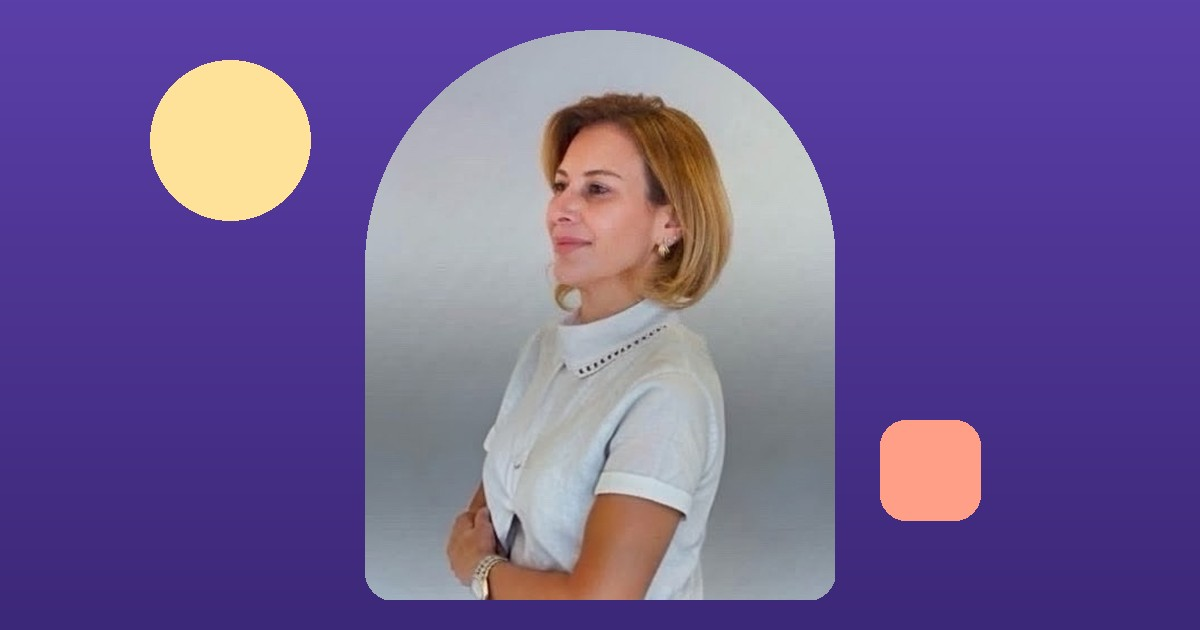
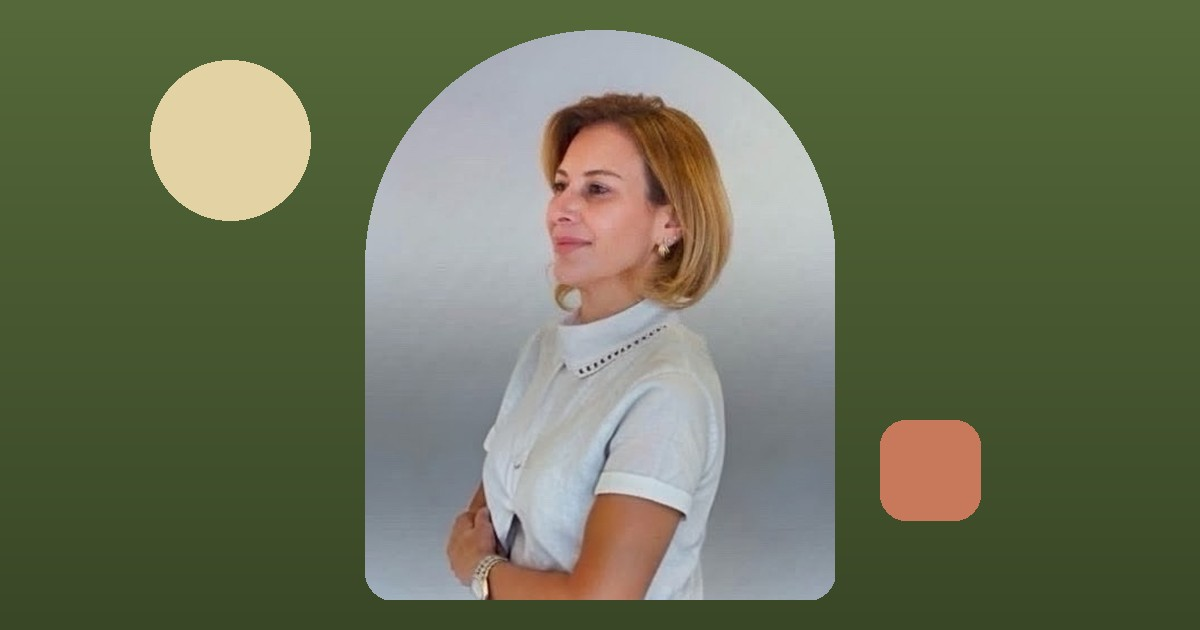
Add files via upload

diff --git a/index.html b/index.html
@@ -1,1 +1,1 @@
-<!doctype html> <html lang='pt-BR'> <head> <meta charset='utf-8'> <meta name='viewport' content='width=device-width, initial-scale=1'> <title>Mentoria A.P.R.E.N.D.E.R. | Suporte psicopedagógico orientado</title> <meta name='description' content='Plano semanal de estímulos de habilidades, preparado e revisado por neuropsicopedagoga. Para crianças de 2 a 14 anos.'> <link rel='canonical' href='https://www.mentoriaaprender.com.br/'> <meta property='og:type' content='website'> <meta property='og:url' content='https://www.mentoriaaprender.com.br/'> <meta property='og:title' content='Mentoria A.P.R.E.N.D.E.R. | Suporte psicopedagógico orientado'> <meta property='og:description' content='Plano semanal de estímulos de habilidades, preparado e revisado por neuropsicopedagoga. Para crianças de 2 a 14 anos.'> <meta property='og:image' content='https://www.mentoriaaprender.com.br/og-image.jpg'> <meta property='og:image:width' content='1200'> <meta property='og:image:height' content='630'> <meta name='twitter:card' content='summary_large_image'> <link rel='preconnect' href='https://fonts.googleapis.com'> <link rel='stylesheet' href='https://fonts.googleapis.com/css2?family=Lexend:wght@500;600;700&family=Nunito:wght@400;600;700&display=swap'> <style>.s0{width:100%;background:#F7F4FF}.s1{padding:20px 24px 0}.s2{max-width:1120px;margin:0 auto;background:#FFFFFF;border-radius:999px;padding:10px 12px 10px 28px;display:flex;flex-wrap:wrap;align-items:center;justify-content:space-between;gap:12px;box-shadow:0 2px 14px rgba(42,27,77,0.08)}.s3{font-family:'Lexend',sans-serif;font-weight:700;font-size:18px;color:#5B3FA8}.s4{display:flex;flex-wrap:wrap;align-items:center;gap:4px 22px}.s5{color:#2A1B4D;text-decoration:none;font-weight:700;font-size:15px;padding:12px 0}.s6{background:#FF9F88;color:#2A1B4D;text-decoration:none;font-weight:700;font-size:15px;padding:12px 22px;border-radius:999px}.s7{max-width:1120px;margin:0 auto;padding:56px 32px 40px;display:flex;flex-wrap:wrap;align-items:center;gap:48px}.s8{flex:1 1 460px;min-width:0;display:flex;flex-direction:column;gap:24px}.s9{align-self:flex-start;background:#FFE29A;color:#2A1B4D;font-weight:700;font-size:14px;padding:8px 16px;border-radius:999px}.s10{font-size:clamp(32px,6vw,50px);line-height:1.12;font-weight:700;color:#2A1B4D}.s11{font-size:19px;line-height:1.6;color:#4A4466}.s12{display:flex;flex-wrap:wrap;gap:14px;align-items:center}.s13{background:#FF9F88;color:#2A1B4D;text-decoration:none;font-weight:700;font-size:17px;padding:16px 30px;border-radius:999px}.s14{color:#5B3FA8;text-decoration:none;font-weight:700;font-size:17px;padding:16px 26px;border-radius:999px;border:2px solid #5B3FA8}.s15{flex:1 1 360px;min-width:0;position:relative;display:flex;justify-content:center;padding:24px}.s16{position:absolute;width:150px;height:150px;border-radius:50%;background:#FFE29A;top:0;right:8px}.s17{position:absolute;width:90px;height:90px;border-radius:24px;background:#FF9F88;bottom:4px;left:12px;transform:rotate(14deg)}.s18{position:relative;width:100%;max-width:420px;min-height:440px;box-sizing:border-box;background:#5B3FA8;border-radius:200px 200px 32px 200px;padding:64px 40px 48px;display:flex;flex-direction:column;justify-content:center;gap:26px}.s19{display:flex;align-items:center;gap:16px}.s20{width:44px;height:44px;border-radius:50%;background:#FFE29A;flex:none}.s21{font-family:'Lexend',sans-serif;font-size:24px;font-weight:600;color:#FFFFFF;line-height:1.2}.s22{display:flex;align-items:center;gap:16px;padding-left:24px}.s23{width:44px;height:44px;border-radius:14px;background:#FF9F88;flex:none}.s24{display:flex;align-items:center;gap:16px;padding-left:48px}.s25{width:44px;height:44px;border-radius:50% 50% 50% 8px;background:#9ADBD0;flex:none}.s26{max-width:1120px;margin:0 auto;padding:0 32px 64px;display:flex;flex-wrap:wrap;gap:12px}.s27{background:#FFFFFF;border-radius:999px;padding:12px 22px;font-weight:700;font-size:15px;color:#5B3FA8}.s28{background:#FFFFFF}.s29{max-width:1120px;margin:0 auto;padding:80px 32px;display:flex;flex-direction:column;gap:36px}.s30{max-width:720px;display:flex;flex-direction:column;gap:14px}.s31{font-size:clamp(28px,5vw,38px);line-height:1.2;font-weight:700}.s32{font-size:18px;line-height:1.6;color:#4A4466}.s33{font-size:22px;font-weight:600;color:#5B3FA8}.s34{display:flex;flex-wrap:wrap;gap:20px}.s35{flex:1 1 440px;min-width:0;background:#FFF5D9;border-radius:28px;padding:32px;display:flex;flex-direction:column;gap:10px}.s36{font-size:22px;font-weight:600}.s37{font-size:16px;line-height:1.55;color:#4A4466}.s38{flex:1 1 440px;min-width:0;background:#FFEDE6;border-radius:28px;padding:32px;display:flex;flex-direction:column;gap:10px}.s39{flex:1 1 440px;min-width:0;background:#E7DFFB;border-radius:28px;padding:32px;display:flex;flex-direction:column;gap:10px}.s40{flex:1 1 440px;min-width:0;background:#D8F1EA;border-radius:28px;padding:32px;display:flex;flex-direction:column;gap:10px}.s41{flex:1 1 280px;min-width:0;background:#E7DFFB;border-radius:28px;padding:32px;display:flex;flex-direction:column;gap:10px}.s42{flex:1 1 280px;min-width:0;background:#D8F1EA;border-radius:28px;padding:32px;display:flex;flex-direction:column;gap:10px}.s43{flex:1 1 280px;min-width:0;background:#FFF5D9;border-radius:28px;padding:32px;display:flex;flex-direction:column;gap:10px}.s44{font-size:15px;line-height:1.55;color:#4A4466;max-width:760px}.s45{max-width:1120px;margin:0 auto;padding:88px 32px;display:flex;flex-wrap:wrap;gap:56px}.s46{flex:1 1 320px;min-width:0;display:flex;flex-direction:column;gap:16px;align-self:flex-start}.s47{font-size:clamp(28px,5vw,40px);line-height:1.15;font-weight:700}.s48{flex:1.4 1 460px;min-width:0;display:flex;flex-direction:column;gap:20px}.s49{display:flex;gap:20px;align-items:flex-start;background:#FFFFFF;border-radius:24px;padding:24px}.s50{width:52px;height:52px;border-radius:50%;background:#5B3FA8;color:#FFFFFF;font-family:'Lexend',sans-serif;font-weight:700;font-size:22px;display:flex;align-items:center;justify-content:center;flex:none}.s51{display:flex;flex-direction:column;gap:6px;min-width:0}.s52{font-size:21px;font-weight:600}.s53{background:#5B3FA8}.s54{max-width:760px;display:flex;flex-direction:column;gap:14px}.s55{font-size:clamp(28px,5vw,38px);line-height:1.2;font-weight:700;color:#FFFFFF}.s56{font-size:18px;line-height:1.6;color:#EDE8FA}.s57{flex:1 1 280px;min-width:0;background:#FFFFFF;border-radius:28px;padding:30px;display:flex;flex-direction:column;gap:12px}.s58{width:44px;height:44px;border-radius:50%;background:#FFE29A}.s59{font-size:16px;line-height:1.6;color:#4A4466}.s60{width:44px;height:44px;border-radius:14px;background:#FF9F88}.s61{width:44px;height:44px;border-radius:50% 50% 50% 8px;background:#9ADBD0}.s62{max-width:1120px;margin:0 auto;padding:88px 32px;display:flex;flex-wrap:wrap;align-items:center;gap:48px}.s63{flex:0 1 340px;min-width:0;width:100%;max-width:340px}.s64{width:100%;height:420px;object-fit:cover;object-position:center top;border-radius:170px 170px 28px 28px;display:block}.s65{flex:1 1 440px;min-width:0;background:#FFF5D9;border-radius:32px;padding:40px;display:flex;flex-direction:column;gap:16px}.s66{font-weight:700;font-size:14px;letter-spacing:1px;text-transform:uppercase;color:#5B3FA8}.s67{font-size:clamp(28px,5vw,36px);line-height:1.2;font-weight:700}.s68{font-size:18px;line-height:1.65;color:#3B2F5C}.s69{font-size:16px;line-height:1.55;color:#3B2F5C}.s70{display:flex;flex-wrap:wrap;background:#F7F4FF;border-radius:32px;overflow:hidden}.s71{flex:1 1 340px;min-width:0;background:#5B3FA8;padding:40px;display:flex;flex-direction:column;gap:20px;justify-content:center}.s72{font-weight:700;font-size:15px;color:#FFE29A}.s73{display:flex;align-items:baseline;gap:8px;flex-wrap:wrap}.s74{font-family:'Lexend',sans-serif;font-weight:700;font-size:48px;line-height:1;color:#FFFFFF}.s75{font-size:16px;color:#EDE8FA}.s76{background:#FFE29A;border-radius:18px;padding:16px 18px;display:flex;flex-direction:column;gap:4px}.s77{font-weight:700;font-size:16px;color:#2A1B4D}.s78{font-size:15px;line-height:1.5;color:#2A1B4D}.s79{flex:1.2 1 360px;min-width:0;padding:40px;display:flex;flex-direction:column;gap:22px;justify-content:center}.s80{margin:0;padding:0;list-style:none;display:flex;flex-direction:column;gap:12px;font-size:16px;line-height:1.5;color:#2A1B4D}.s81{display:flex;gap:12px;align-items:flex-start}.s82{width:10px;height:10px;border-radius:50%;background:#FF9F88;flex:none;margin-top:7px}.s83{align-self:flex-start;background:#FF9F88;color:#2A1B4D;text-decoration:none;font-weight:700;font-size:17px;padding:16px 30px;border-radius:999px}.s84{max-width:1120px;margin:0 auto;padding:88px 32px;display:flex;flex-direction:column;gap:36px}.s85{flex:1 1 440px;min-width:0;display:flex;flex-direction:column;gap:20px}.s86{background:#FFFFFF;border-radius:24px;padding:24px;display:flex;flex-direction:column;gap:8px}.s87{font-size:19px;font-weight:600}.s88{background:#E7DFFB;border-radius:24px;padding:24px;display:flex;flex-direction:column;gap:12px}.s89{font-size:16px;line-height:1.6;color:#3B2F5C}.s90{align-self:flex-start;background:#5B3FA8;color:#FFFFFF;text-decoration:none;font-weight:700;font-size:16px;padding:14px 26px;border-radius:999px}.s91{background:#2A1B4D}.s92{max-width:880px;margin:0 auto;padding:80px 32px 48px;display:flex;flex-direction:column;gap:24px;align-items:center;text-align:center}.s93{font-size:clamp(30px,5vw,40px);line-height:1.15;font-weight:700;color:#FFFFFF}.s94{font-size:18px;line-height:1.6;color:#E3DCF5;max-width:620px}.s95{background:#FF9F88;color:#2A1B4D;text-decoration:none;font-weight:700;font-size:18px;padding:18px 36px;border-radius:999px}.s96{max-width:1120px;margin:0 auto;padding:32px;border-top:1px solid #4A3A75;display:flex;flex-wrap:wrap;justify-content:space-between;gap:20px}.s97{display:flex;flex-direction:column;gap:6px;flex:1 1 320px;min-width:0}.s98{font-family:'Lexend',sans-serif;font-weight:700;font-size:18px;color:#FFFFFF}.s99{font-size:14px;line-height:1.5;color:#D6CDEE}.s100{display:flex;flex-direction:column;gap:4px;font-size:15px;line-height:1.5}.s101{color:#FFFFFF;text-decoration:underline;padding:8px 0} body{margin:0;font-family:'Nunito',system-ui,sans-serif;color:#2A1B4D;background:#F7F4FF} h1,h2,h3{font-family:'Lexend','Nunito',system-ui,sans-serif;margin:0} p{margin:0} a{color:#5B3FA8} @media (max-width:760px){.nav-b{justify-content:center!important;padding:16px 20px!important;border-radius:32px!important}.nav-b-logo{width:100%;text-align:center}.nav-b-links{justify-content:center!important}} </style> <style>html{scroll-behavior:smooth}</style> </head> <body> <div class='s0'> <header class='s1'> <div class='nav-b s2'> <div class='nav-b-logo s3'>Mentoria A.P.R.E.N.D.E.R.</div> <nav class='nav-b-links s4'> <a class='s5' href='#como-funciona'>Como funciona</a> <a class='s5' href='#valores'>Valores</a> <a class='s5' href='#perguntas'>Perguntas</a> <a class='s6' href='https://mentoria-aprender-hkcu.vercel.app'>Começar a Mentoria</a> </nav> </div> </header> <section> <div class='s7'> <div class='s8'> <div class='s9'>Suporte psicopedagógico orientado em casa</div> <h1 class='s10'>Aprender pode ser mais leve com um plano de estímulos de habilidades personalizado para o seu filho.</h1> <p class='s11'>Toda semana, sua família recebe atividades preparadas e revisadas por uma neuropsicopedagoga. Você conduz em casa, com orientação passo a passo.</p> <div class='s12'> <a class='s13' href='https://mentoria-aprender-hkcu.vercel.app'>Começar a Mentoria</a> <a class='s14' href='#como-funciona'>Ver como funciona</a> </div> </div> <div class='s15'> <div class='s16'></div> <div class='s17'></div> <div class='s18'> <div class='s19'><div class='s20'></div><div class='s21'>A família conduz.</div></div> <div class='s22'><div class='s23'></div><div class='s21'>A profissional orienta.</div></div> <div class='s24'><div class='s25'></div><div class='s21'>A criança floresce.</div></div> </div> </div> </div> <div class='s26'> <div class='s27'>Para crianças de 2 a 14 anos</div> <div class='s27'>Plano novo toda semana</div> <div class='s27'>Sem fidelidade</div> </div> </section> <section class='s28'> <div class='s29'> <div class='s30'> <h2 class='s31'>Sinais que costumam levar as famílias até aqui</h2> <p class='s32'>Se você se reconhece em alguma destas situações, a Mentoria pode ajudar a organizar o apoio dentro de casa.</p> </div> <h3 class='s33'>Na idade escolar</h3> <div class='s34'> <div class='s35'> <h3 class='s36'>Lição de casa vira conflito</h3> <p class='s37'>O horário de estudo termina em choro, cansaço e discussão.</p> </div> <div class='s38'> <h3 class='s36'>Dificuldade de atenção</h3> <p class='s37'>Perde o foco rápido, esquece instruções, não termina o que começa.</p> </div> <div class='s39'> <h3 class='s36'>Leitura, escrita ou matemática</h3> <p class='s37'>Está aprendendo em um ritmo diferente do esperado para a idade.</p> </div> <div class='s40'> <h3 class='s36'>Medo de errar</h3> <p class='s37'>Evita tarefas, diz que não consegue e perde a confiança em si.</p> </div> </div> <h3 class='s33'>Na primeira infância (2 a 5 anos)</h3> <div class='s34'> <div class='s41'> <h3 class='s36'>Fala e comunicação</h3> <p class='s37'>Demora para falar, dificuldade de ser compreendido ou de se expressar com palavras.</p> </div> <div class='s42'> <h3 class='s36'>Coordenação e brincadeiras</h3> <p class='s37'>Dificuldade com lápis, tesoura e encaixes, ou pouco interesse em brincar com outras crianças.</p> </div> <div class='s43'> <h3 class='s36'>Rotina e emoções</h3> <p class='s37'>Birras intensas, dificuldade de seguir rotinas e de lidar com frustrações.</p> </div> </div> <p class='s44'>A Mentoria é um suporte psicopedagógico orientado. Ela não substitui avaliação e nem diagnóstico profissional.</p> </div> </section> <section id='como-funciona'> <div class='s45'> <div class='s46'> <h2 class='s47'>Como funciona, em 4 passos</h2> <p class='s32'>Simples para a família, cuidadoso para a criança.</p> </div> <div class='s48'> <div class='s49'> <div class='s50'>1</div> <div class='s51'> <h3 class='s52'>Você começa a Mentoria</h3> <p class='s37'>Cria a conta, cadastra seu filho e escolhe o acompanhamento mensal.</p> </div> </div> <div class='s49'> <div class='s50'>2</div> <div class='s51'> <h3 class='s52'>Conversa de acolhimento</h3> <p class='s37'>Um encontro online para conhecer a criança, a rotina e as queixas da família.</p> </div> </div> <div class='s49'> <div class='s50'>3</div> <div class='s51'> <h3 class='s52'>Plano semanal personalizado</h3> <p class='s37'>Atividades preparadas e revisadas por neuropsicopedagoga. Você escolhe o formato: 1, 2 ou 4 atividades por dia.</p> </div> </div> <div class='s49'> <div class='s50'>4</div> <div class='s51'> <h3 class='s52'>Acompanhamento mensal</h3> <p class='s37'>Semana após semana, você recebe novos planos e segue com orientação durante o mês.</p> </div> </div> </div> </div> </section> <section class='s53'> <div class='s29'> <div class='s54'> <h2 class='s55'>Por que esse jeito funciona</h2> <p class='s56'>Cada plano nasce de princípios da neurociência da aprendizagem e da neuropsicopedagogia.</p> </div> <div class='s34'> <div class='s57'> <div class='s58'></div> <h3 class='s36'>Pouco por vez</h3> <p class='s59'>Tarefas curtas e claras respeitam a atenção e a memória de trabalho da criança, e evitam a sobrecarga que faz ela desistir.</p> </div> <div class='s57'> <div class='s60'></div> <h3 class='s36'>Brincar é aprender</h3> <p class='s59'>Jogos e desafios com emoção positiva aumentam a motivação e ajudam o cérebro a fixar o que foi vivido.</p> </div> <div class='s57'> <div class='s61'></div> <h3 class='s36'>Rotina com variação</h3> <p class='s59'>Repetir com pequenas mudanças fortalece as conexões entre os neurônios e traz confiança para a criança.</p> </div> </div> </div> </section> <section> <div class='s62'> <div class='s63'> <img class='s64' src='michelle.jpg' alt='Michelle, neuropsicopedagoga'> </div> <div class='s65'> <div class='s66'>Quem está por trás da Mentoria</div> <h2 class='s67'>Michelle, neuropsicopedagoga</h2> <p class='s68'>Criei a Mentoria para levar o olhar da psicopedagogia para dentro de casa: com método, afeto e orientação para a família. Cada plano é preparado e revisado por mim, para que a criança aprenda no seu ritmo e a rotina de estudos fique mais tranquila.</p> <p class='s69'>Formação em pedagogia, psicopedagogia, neuropsicopedagogia e neuropsicologia (em curso).</p> </div> </div> </section> <section class='s28' id='valores'> <div class='s29'> <div class='s30'> <h2 class='s31'>Um valor claro, sem fidelidade</h2> <p class='s32'>Tudo o que sua família precisa em um único acompanhamento mensal.</p> </div> <div class='s70'> <div class='s71'> <div class='s72'>Acompanhamento mensal</div> <div class='s73'> <span class='s74'>R$ 149,90</span> <span class='s75'>por mês</span> </div> <div class='s76'> <div class='s77'>Oferta de novembro</div> <p class='s78'>Começando em novembro, o primeiro mês sai por R$ 79,90. Digite o cupom NOVEMBRO79 na tela de pagamento. Válido só em novembro.</p> </div> </div> <div class='s79'> <ul class='s80'> <li class='s81'><span class='s82'></span>Conversa de acolhimento online</li> <li class='s81'><span class='s82'></span>Plano semanal preparado e revisado por neuropsicopedagoga</li> <li class='s81'><span class='s82'></span>Você escolhe o formato: 1, 2 ou 4 atividades por dia</li> <li class='s81'><span class='s82'></span>Orientação passo a passo para conduzir em casa</li> <li class='s81'><span class='s82'></span>Cancelamento quando quiser, valendo até o fim do período pago</li> </ul> <a class='s83' href='https://mentoria-aprender-hkcu.vercel.app'>Começar a Mentoria</a> </div> </div> </div> </section> <section id='perguntas'> <div class='s84'> <h2 class='s31'>Perguntas frequentes</h2> <div class='s34'> <div class='s85'> <div class='s86'> <h3 class='s87'>Preciso ter formação para aplicar as atividades?</h3> <p class='s59'>Não. Cada plano traz o passo a passo, e a família conduz com a orientação da Mentoria.</p> </div> <div class='s86'> <h3 class='s87'>A Mentoria substitui terapia ou avaliação?</h3> <p class='s59'>Não. É um suporte psicopedagógico orientado e não faz diagnóstico. Quando for preciso, a família é orientada a buscar avaliação profissional.</p> </div> <div class='s86'> <h3 class='s87'>Para quais idades?</h3> <p class='s59'>Crianças e adolescentes de 2 a 14 anos.</p> </div> <div class='s86'> <h3 class='s87'>Quanto tempo por dia?</h3> <p class='s59'>Você escolhe o formato da semana: 1, 2 ou 4 atividades por dia, de acordo com a rotina da família.</p> </div> </div> <div class='s85'> <div class='s86'> <h3 class='s87'>Preciso comprar materiais?</h3> <p class='s59'>Alguns planos podem sugerir jogos ou materiais para apoiar as atividades.</p> </div> <div class='s86'> <h3 class='s87'>Tenho mais de um filho. Como funciona?</h3> <p class='s59'>Vocês usam a mesma conta, com um acompanhamento para cada filho.</p> </div> <div class='s86'> <h3 class='s87'>Posso cancelar?</h3> <p class='s59'>Sim, quando quiser. O acesso continua até o fim do período já pago.</p> </div> <div class='s88'> <h3 class='s87'>Ainda tem dúvidas?</h3> <p class='s89'>Converse com a Michelle pelo WhatsApp antes de começar a Mentoria.</p> <a class='s90' href='https://wa.me/message/4W5EBGGFLVN3A1'>Falar pelo WhatsApp</a> </div> </div> </div> </div> </section> <section class='s91'> <div class='s92'> <h2 class='s93'>Dê o primeiro passo por um aprender mais leve</h2> <p class='s94'>Comece a Mentoria e receba um plano pensado para o seu filho, com orientação de quem entende de aprendizagem.</p> <a class='s95' href='https://mentoria-aprender-hkcu.vercel.app'>Começar a Mentoria</a> </div> <div class='s96'> <div class='s97'> <div class='s98'>Mentoria A.P.R.E.N.D.E.R.</div> <p class='s99'>Suporte psicopedagógico orientado. Não substitui avaliação e nem diagnóstico profissional.</p> </div> <div class='s100'> <a class='s101' href='https://www.instagram.com/psicopedagogamichellegb'>Instagram: @psicopedagogamichellegb</a> <a class='s101' href='mailto:metodoaprenderpsicomi@gmail.com'>metodoaprenderpsicomi@gmail.com</a> <a class='s101' href='https://wa.me/message/4W5EBGGFLVN3A1'>WhatsApp: fale com a Michelle</a> </div> </div> </section> </div> </body> </html> 
+<!doctype html> <html lang='pt-BR'> <head> <meta charset='utf-8'> <meta name='viewport' content='width=device-width, initial-scale=1'> <title>Mentoria A.P.R.E.N.D.E.R. | Suporte psicopedagógico orientado</title> <meta name='description' content='Plano semanal de estímulos de habilidades, preparado e revisado por neuropsicopedagoga. Para crianças de 2 a 14 anos.'> <link rel='canonical' href='https://www.mentoriaaprender.com.br/'> <meta property='og:type' content='website'> <meta property='og:url' content='https://www.mentoriaaprender.com.br/'> <meta property='og:title' content='Mentoria A.P.R.E.N.D.E.R. | Suporte psicopedagógico orientado'> <meta property='og:description' content='Plano semanal de estímulos de habilidades, preparado e revisado por neuropsicopedagoga. Para crianças de 2 a 14 anos.'> <meta property='og:image' content='https://www.mentoriaaprender.com.br/og-image.jpg'> <meta property='og:image:width' content='1200'> <meta property='og:image:height' content='630'> <meta name='twitter:card' content='summary_large_image'> <link rel='preconnect' href='https://fonts.googleapis.com'> <link rel='stylesheet' href='https://fonts.googleapis.com/css2?family=Lexend:wght@500;600;700&family=Nunito:wght@400;600;700&display=swap'> <style>.s0{width:100%;background:#F4EDE2}.s1{padding:20px 24px 0}.s2{max-width:1120px;margin:0 auto;background:#FFFFFF;border-radius:999px;padding:10px 12px 10px 28px;display:flex;flex-wrap:wrap;align-items:center;justify-content:space-between;gap:12px;box-shadow:0 2px 14px rgba(58,71,39,0.10)}.s3{font-family:'Lexend',sans-serif;font-weight:700;font-size:18px;color:#55693A}.s4{display:flex;flex-wrap:wrap;align-items:center;gap:4px 22px}.s5{color:#3A4727;text-decoration:none;font-weight:700;font-size:15px;padding:12px 0}.s6{background:#A9573E;color:#FFFFFF;text-decoration:none;font-weight:700;font-size:15px;padding:12px 22px;border-radius:999px}.s7{max-width:1120px;margin:0 auto;padding:56px 32px 40px;display:flex;flex-wrap:wrap;align-items:center;gap:48px}.s8{flex:1 1 460px;min-width:0;display:flex;flex-direction:column;gap:24px}.s9{align-self:flex-start;background:#E3D3A4;color:#3A4727;font-weight:700;font-size:14px;padding:8px 16px;border-radius:999px}.s10{font-size:clamp(32px,6vw,50px);line-height:1.12;font-weight:700;color:#3A4727}.s11{font-size:19px;line-height:1.6;color:#55564A}.s12{display:flex;flex-wrap:wrap;gap:14px;align-items:center}.s13{background:#A9573E;color:#FFFFFF;text-decoration:none;font-weight:700;font-size:17px;padding:16px 30px;border-radius:999px}.s14{color:#55693A;text-decoration:none;font-weight:700;font-size:17px;padding:16px 26px;border-radius:999px;border:2px solid #55693A}.s15{flex:1 1 360px;min-width:0;position:relative;display:flex;justify-content:center;padding:24px}.s16{position:absolute;width:150px;height:150px;border-radius:50%;background:#E3D3A4;top:0;right:8px}.s17{position:absolute;width:90px;height:90px;border-radius:24px;background:#C9795B;bottom:4px;left:12px;transform:rotate(14deg)}.s18{position:relative;width:100%;max-width:420px;min-height:440px;box-sizing:border-box;background:#55693A;border-radius:200px 200px 32px 200px;padding:64px 40px 48px;display:flex;flex-direction:column;justify-content:center;gap:26px}.s19{display:flex;align-items:center;gap:16px}.s20{width:44px;height:44px;border-radius:50%;background:#E3D3A4;flex:none}.s21{font-family:'Lexend',sans-serif;font-size:24px;font-weight:600;color:#FFFFFF;line-height:1.2}.s22{display:flex;align-items:center;gap:16px;padding-left:24px}.s23{width:44px;height:44px;border-radius:14px;background:#C9795B;flex:none}.s24{display:flex;align-items:center;gap:16px;padding-left:48px}.s25{width:44px;height:44px;border-radius:50% 50% 50% 8px;background:#A9B98A;flex:none}.s26{max-width:1120px;margin:0 auto;padding:0 32px 64px;display:flex;flex-wrap:wrap;gap:12px}.s27{background:#FFFFFF;border-radius:999px;padding:12px 22px;font-weight:700;font-size:15px;color:#55693A}.s28{background:#FFFFFF}.s29{max-width:1120px;margin:0 auto;padding:80px 32px;display:flex;flex-direction:column;gap:36px}.s30{max-width:720px;display:flex;flex-direction:column;gap:14px}.s31{font-size:clamp(28px,5vw,38px);line-height:1.2;font-weight:700}.s32{font-size:18px;line-height:1.6;color:#55564A}.s33{font-size:22px;font-weight:600;color:#55693A}.s34{display:flex;flex-wrap:wrap;gap:20px}.s35{flex:1 1 440px;min-width:0;background:#F3E9D0;border-radius:28px;padding:32px;display:flex;flex-direction:column;gap:10px}.s36{font-size:22px;font-weight:600}.s37{font-size:16px;line-height:1.55;color:#55564A}.s38{flex:1 1 440px;min-width:0;background:#F2DDD2;border-radius:28px;padding:32px;display:flex;flex-direction:column;gap:10px}.s39{flex:1 1 440px;min-width:0;background:#E3E8D3;border-radius:28px;padding:32px;display:flex;flex-direction:column;gap:10px}.s40{flex:1 1 440px;min-width:0;background:#D5DEC0;border-radius:28px;padding:32px;display:flex;flex-direction:column;gap:10px}.s41{flex:1 1 280px;min-width:0;background:#E3E8D3;border-radius:28px;padding:32px;display:flex;flex-direction:column;gap:10px}.s42{flex:1 1 280px;min-width:0;background:#D5DEC0;border-radius:28px;padding:32px;display:flex;flex-direction:column;gap:10px}.s43{flex:1 1 280px;min-width:0;background:#F3E9D0;border-radius:28px;padding:32px;display:flex;flex-direction:column;gap:10px}.s44{font-size:15px;line-height:1.55;color:#55564A;max-width:760px}.s45{max-width:1120px;margin:0 auto;padding:88px 32px;display:flex;flex-wrap:wrap;gap:56px}.s46{flex:1 1 320px;min-width:0;display:flex;flex-direction:column;gap:16px;align-self:flex-start}.s47{font-size:clamp(28px,5vw,40px);line-height:1.15;font-weight:700}.s48{flex:1.4 1 460px;min-width:0;display:flex;flex-direction:column;gap:20px}.s49{display:flex;gap:20px;align-items:flex-start;background:#FFFFFF;border-radius:24px;padding:24px}.s50{width:52px;height:52px;border-radius:50%;background:#55693A;color:#FFFFFF;font-family:'Lexend',sans-serif;font-weight:700;font-size:22px;display:flex;align-items:center;justify-content:center;flex:none}.s51{display:flex;flex-direction:column;gap:6px;min-width:0}.s52{font-size:21px;font-weight:600}.s53{background:#55693A}.s54{max-width:760px;display:flex;flex-direction:column;gap:14px}.s55{font-size:clamp(28px,5vw,38px);line-height:1.2;font-weight:700;color:#FFFFFF}.s56{font-size:18px;line-height:1.6;color:#EAE6D4}.s57{flex:1 1 280px;min-width:0;background:#FFFFFF;border-radius:28px;padding:30px;display:flex;flex-direction:column;gap:12px}.s58{width:44px;height:44px;border-radius:50%;background:#E3D3A4}.s59{font-size:16px;line-height:1.6;color:#55564A}.s60{width:44px;height:44px;border-radius:14px;background:#C9795B}.s61{width:44px;height:44px;border-radius:50% 50% 50% 8px;background:#A9B98A}.s62{max-width:1120px;margin:0 auto;padding:88px 32px;display:flex;flex-wrap:wrap;align-items:center;gap:48px}.s63{flex:0 1 340px;min-width:0;width:100%;max-width:340px}.s64{width:100%;height:420px;object-fit:cover;object-position:center top;border-radius:170px 170px 28px 28px;display:block}.s65{flex:1 1 440px;min-width:0;background:#F3E9D0;border-radius:32px;padding:40px;display:flex;flex-direction:column;gap:16px}.s66{font-weight:700;font-size:14px;letter-spacing:1px;text-transform:uppercase;color:#55693A}.s67{font-size:clamp(28px,5vw,36px);line-height:1.2;font-weight:700}.s68{font-size:18px;line-height:1.65;color:#3F4631}.s69{font-size:16px;line-height:1.55;color:#3F4631}.s70{display:flex;flex-wrap:wrap;background:#F4EDE2;border-radius:32px;overflow:hidden}.s71{flex:1 1 340px;min-width:0;background:#55693A;padding:40px;display:flex;flex-direction:column;gap:20px;justify-content:center}.s72{font-weight:700;font-size:15px;color:#E3D3A4}.s73{display:flex;align-items:baseline;gap:8px;flex-wrap:wrap}.s74{font-family:'Lexend',sans-serif;font-weight:700;font-size:48px;line-height:1;color:#FFFFFF}.s75{font-size:16px;color:#EAE6D4}.s76{background:#E3D3A4;border-radius:18px;padding:16px 18px;display:flex;flex-direction:column;gap:4px}.s77{font-weight:700;font-size:16px;color:#3A4727}.s78{font-size:15px;line-height:1.5;color:#3A4727}.s79{flex:1.2 1 360px;min-width:0;padding:40px;display:flex;flex-direction:column;gap:22px;justify-content:center}.s80{margin:0;padding:0;list-style:none;display:flex;flex-direction:column;gap:12px;font-size:16px;line-height:1.5;color:#3A4727}.s81{display:flex;gap:12px;align-items:flex-start}.s82{width:10px;height:10px;border-radius:50%;background:#C9795B;flex:none;margin-top:7px}.s83{align-self:flex-start;background:#A9573E;color:#FFFFFF;text-decoration:none;font-weight:700;font-size:17px;padding:16px 30px;border-radius:999px}.s84{max-width:1120px;margin:0 auto;padding:88px 32px;display:flex;flex-direction:column;gap:36px}.s85{flex:1 1 440px;min-width:0;display:flex;flex-direction:column;gap:20px}.s86{background:#FFFFFF;border-radius:24px;padding:24px;display:flex;flex-direction:column;gap:8px}.s87{font-size:19px;font-weight:600}.s88{background:#E3E8D3;border-radius:24px;padding:24px;display:flex;flex-direction:column;gap:12px}.s89{font-size:16px;line-height:1.6;color:#3F4631}.s90{align-self:flex-start;background:#55693A;color:#FFFFFF;text-decoration:none;font-weight:700;font-size:16px;padding:14px 26px;border-radius:999px}.s91{background:#3A4727}.s92{max-width:880px;margin:0 auto;padding:80px 32px 48px;display:flex;flex-direction:column;gap:24px;align-items:center;text-align:center}.s93{font-size:clamp(30px,5vw,40px);line-height:1.15;font-weight:700;color:#FFFFFF}.s94{font-size:18px;line-height:1.6;color:#E2DFCC;max-width:620px}.s95{background:#D9C48E;color:#3A4727;text-decoration:none;font-weight:700;font-size:18px;padding:18px 36px;border-radius:999px}.s96{max-width:1120px;margin:0 auto;padding:32px;border-top:1px solid #5C6B45;display:flex;flex-wrap:wrap;justify-content:space-between;gap:20px}.s97{display:flex;flex-direction:column;gap:6px;flex:1 1 320px;min-width:0}.s98{font-family:'Lexend',sans-serif;font-weight:700;font-size:18px;color:#FFFFFF}.s99{font-size:14px;line-height:1.5;color:#D8D5C0}.s100{display:flex;flex-direction:column;gap:4px;font-size:15px;line-height:1.5}.s101{color:#FFFFFF;text-decoration:underline;padding:8px 0} body{margin:0;font-family:'Nunito',system-ui,sans-serif;color:#3A4727;background:#F4EDE2} h1,h2,h3{font-family:'Lexend','Nunito',system-ui,sans-serif;margin:0} p{margin:0} a{color:#55693A} @media (max-width:760px){.nav-b{justify-content:center!important;padding:16px 20px!important;border-radius:32px!important}.nav-b-logo{width:100%;text-align:center}.nav-b-links{justify-content:center!important}} </style> <style>html{scroll-behavior:smooth}</style> </head> <body> <div class='s0'> <header class='s1'> <div class='nav-b s2'> <div class='nav-b-logo s3'>Mentoria A.P.R.E.N.D.E.R.</div> <nav class='nav-b-links s4'> <a class='s5' href='#como-funciona'>Como funciona</a> <a class='s5' href='#valores'>Valores</a> <a class='s5' href='#perguntas'>Perguntas</a> <a class='s6' href='https://mentoria-aprender-hkcu.vercel.app'>Começar a Mentoria</a> </nav> </div> </header> <section> <div class='s7'> <div class='s8'> <div class='s9'>Suporte psicopedagógico orientado em casa</div> <h1 class='s10'>Aprender pode ser mais leve com um plano de estímulos de habilidades personalizado para o seu filho.</h1> <p class='s11'>Toda semana, sua família recebe atividades preparadas e revisadas por uma neuropsicopedagoga. Você conduz em casa, com orientação passo a passo.</p> <div class='s12'> <a class='s13' href='https://mentoria-aprender-hkcu.vercel.app'>Começar a Mentoria</a> <a class='s14' href='#como-funciona'>Ver como funciona</a> </div> </div> <div class='s15'> <div class='s16'></div> <div class='s17'></div> <div class='s18'> <div class='s19'><div class='s20'></div><div class='s21'>A família conduz.</div></div> <div class='s22'><div class='s23'></div><div class='s21'>A profissional orienta.</div></div> <div class='s24'><div class='s25'></div><div class='s21'>A criança floresce.</div></div> </div> </div> </div> <div class='s26'> <div class='s27'>Para crianças de 2 a 14 anos</div> <div class='s27'>Plano novo toda semana</div> <div class='s27'>Sem fidelidade</div> </div> </section> <section class='s28'> <div class='s29'> <div class='s30'> <h2 class='s31'>Sinais que costumam levar as famílias até aqui</h2> <p class='s32'>Se você se reconhece em alguma destas situações, a Mentoria pode ajudar a organizar o apoio dentro de casa.</p> </div> <h3 class='s33'>Na idade escolar</h3> <div class='s34'> <div class='s35'> <h3 class='s36'>Lição de casa vira conflito</h3> <p class='s37'>O horário de estudo termina em choro, cansaço e discussão.</p> </div> <div class='s38'> <h3 class='s36'>Dificuldade de atenção</h3> <p class='s37'>Perde o foco rápido, esquece instruções, não termina o que começa.</p> </div> <div class='s39'> <h3 class='s36'>Leitura, escrita ou matemática</h3> <p class='s37'>Está aprendendo em um ritmo diferente do esperado para a idade.</p> </div> <div class='s40'> <h3 class='s36'>Medo de errar</h3> <p class='s37'>Evita tarefas, diz que não consegue e perde a confiança em si.</p> </div> </div> <h3 class='s33'>Na primeira infância (2 a 5 anos)</h3> <div class='s34'> <div class='s41'> <h3 class='s36'>Fala e comunicação</h3> <p class='s37'>Demora para falar, dificuldade de ser compreendido ou de se expressar com palavras.</p> </div> <div class='s42'> <h3 class='s36'>Coordenação e brincadeiras</h3> <p class='s37'>Dificuldade com lápis, tesoura e encaixes, ou pouco interesse em brincar com outras crianças.</p> </div> <div class='s43'> <h3 class='s36'>Rotina e emoções</h3> <p class='s37'>Birras intensas, dificuldade de seguir rotinas e de lidar com frustrações.</p> </div> </div> <p class='s44'>A Mentoria é um suporte psicopedagógico orientado. Ela não substitui avaliação e nem diagnóstico profissional.</p> </div> </section> <section id='como-funciona'> <div class='s45'> <div class='s46'> <h2 class='s47'>Como funciona, em 4 passos</h2> <p class='s32'>Simples para a família, cuidadoso para a criança.</p> </div> <div class='s48'> <div class='s49'> <div class='s50'>1</div> <div class='s51'> <h3 class='s52'>Você começa a Mentoria</h3> <p class='s37'>Cria a conta, cadastra seu filho e escolhe o acompanhamento mensal.</p> </div> </div> <div class='s49'> <div class='s50'>2</div> <div class='s51'> <h3 class='s52'>Conversa de acolhimento</h3> <p class='s37'>Um encontro online para conhecer a criança, a rotina e as queixas da família.</p> </div> </div> <div class='s49'> <div class='s50'>3</div> <div class='s51'> <h3 class='s52'>Plano semanal personalizado</h3> <p class='s37'>Atividades preparadas e revisadas por neuropsicopedagoga. Você escolhe o formato: 1, 2 ou 4 atividades por dia.</p> </div> </div> <div class='s49'> <div class='s50'>4</div> <div class='s51'> <h3 class='s52'>Acompanhamento mensal</h3> <p class='s37'>Semana após semana, você recebe novos planos e segue com orientação durante o mês.</p> </div> </div> </div> </div> </section> <section class='s53'> <div class='s29'> <div class='s54'> <h2 class='s55'>Por que esse jeito funciona</h2> <p class='s56'>Cada plano nasce de princípios da neurociência da aprendizagem e da neuropsicopedagogia.</p> </div> <div class='s34'> <div class='s57'> <div class='s58'></div> <h3 class='s36'>Pouco por vez</h3> <p class='s59'>Tarefas curtas e claras respeitam a atenção e a memória de trabalho da criança, e evitam a sobrecarga que faz ela desistir.</p> </div> <div class='s57'> <div class='s60'></div> <h3 class='s36'>Brincar é aprender</h3> <p class='s59'>Jogos e desafios com emoção positiva aumentam a motivação e ajudam o cérebro a fixar o que foi vivido.</p> </div> <div class='s57'> <div class='s61'></div> <h3 class='s36'>Rotina com variação</h3> <p class='s59'>Repetir com pequenas mudanças fortalece as conexões entre os neurônios e traz confiança para a criança.</p> </div> </div> </div> </section> <section> <div class='s62'> <div class='s63'> <img class='s64' src='michelle.jpg' alt='Michelle, neuropsicopedagoga'> </div> <div class='s65'> <div class='s66'>Quem está por trás da Mentoria</div> <h2 class='s67'>Michelle, neuropsicopedagoga</h2> <p class='s68'>Criei a Mentoria para levar o olhar da psicopedagogia para dentro de casa: com método, afeto e orientação para a família. Cada plano é preparado e revisado por mim, para que a criança aprenda no seu ritmo e a rotina de estudos fique mais tranquila.</p> <p class='s69'>Formação em pedagogia, psicopedagogia, neuropsicopedagogia e neuropsicologia (em curso).</p> </div> </div> </section> <section class='s28' id='valores'> <div class='s29'> <div class='s30'> <h2 class='s31'>Um valor claro, sem fidelidade</h2> <p class='s32'>Tudo o que sua família precisa em um único acompanhamento mensal.</p> </div> <div class='s70'> <div class='s71'> <div class='s72'>Acompanhamento mensal</div> <div class='s73'> <span class='s74'>R$ 149,90</span> <span class='s75'>por mês</span> </div> <div class='s76'> <div class='s77'>Oferta de novembro</div> <p class='s78'>Começando em novembro, o primeiro mês sai por R$ 79,90. Digite o cupom NOVEMBRO79 na tela de pagamento. Válido só em novembro.</p> </div> </div> <div class='s79'> <ul class='s80'> <li class='s81'><span class='s82'></span>Conversa de acolhimento online</li> <li class='s81'><span class='s82'></span>Plano semanal preparado e revisado por neuropsicopedagoga</li> <li class='s81'><span class='s82'></span>Você escolhe o formato: 1, 2 ou 4 atividades por dia</li> <li class='s81'><span class='s82'></span>Orientação passo a passo para conduzir em casa</li> <li class='s81'><span class='s82'></span>Cancelamento quando quiser, valendo até o fim do período pago</li> </ul> <a class='s83' href='https://mentoria-aprender-hkcu.vercel.app'>Começar a Mentoria</a> </div> </div> </div> </section> <section id='perguntas'> <div class='s84'> <h2 class='s31'>Perguntas frequentes</h2> <div class='s34'> <div class='s85'> <div class='s86'> <h3 class='s87'>Preciso ter formação para aplicar as atividades?</h3> <p class='s59'>Não. Cada plano traz o passo a passo, e a família conduz com a orientação da Mentoria.</p> </div> <div class='s86'> <h3 class='s87'>A Mentoria substitui terapia ou avaliação?</h3> <p class='s59'>Não. É um suporte psicopedagógico orientado e não faz diagnóstico. Quando for preciso, a família é orientada a buscar avaliação profissional.</p> </div> <div class='s86'> <h3 class='s87'>Para quais idades?</h3> <p class='s59'>Crianças e adolescentes de 2 a 14 anos.</p> </div> <div class='s86'> <h3 class='s87'>Quanto tempo por dia?</h3> <p class='s59'>Você escolhe o formato da semana: 1, 2 ou 4 atividades por dia, de acordo com a rotina da família.</p> </div> </div> <div class='s85'> <div class='s86'> <h3 class='s87'>Preciso comprar materiais?</h3> <p class='s59'>Alguns planos podem sugerir jogos ou materiais para apoiar as atividades.</p> </div> <div class='s86'> <h3 class='s87'>Tenho mais de um filho. Como funciona?</h3> <p class='s59'>Vocês usam a mesma conta, com um acompanhamento para cada filho.</p> </div> <div class='s86'> <h3 class='s87'>Posso cancelar?</h3> <p class='s59'>Sim, quando quiser. O acesso continua até o fim do período já pago.</p> </div> <div class='s88'> <h3 class='s87'>Ainda tem dúvidas?</h3> <p class='s89'>Converse com a Michelle pelo WhatsApp antes de começar a Mentoria.</p> <a class='s90' href='https://wa.me/message/4W5EBGGFLVN3A1'>Falar pelo WhatsApp</a> </div> </div> </div> </div> </section> <section class='s91'> <div class='s92'> <h2 class='s93'>Dê o primeiro passo por um aprender mais leve</h2> <p class='s94'>Comece a Mentoria e receba um plano pensado para o seu filho, com orientação de quem entende de aprendizagem.</p> <a class='s95' href='https://mentoria-aprender-hkcu.vercel.app'>Começar a Mentoria</a> </div> <div class='s96'> <div class='s97'> <div class='s98'>Mentoria A.P.R.E.N.D.E.R.</div> <p class='s99'>Suporte psicopedagógico orientado. Não substitui avaliação e nem diagnóstico profissional.</p> </div> <div class='s100'> <a class='s101' href='https://www.instagram.com/psicopedagogamichellegb'>Instagram: @psicopedagogamichellegb</a> <a class='s101' href='mailto:metodoaprenderpsicomi@gmail.com'>metodoaprenderpsicomi@gmail.com</a> <a class='s101' href='https://wa.me/message/4W5EBGGFLVN3A1'>WhatsApp: fale com a Michelle</a> </div> </div> </section> </div> </body> </html> 
